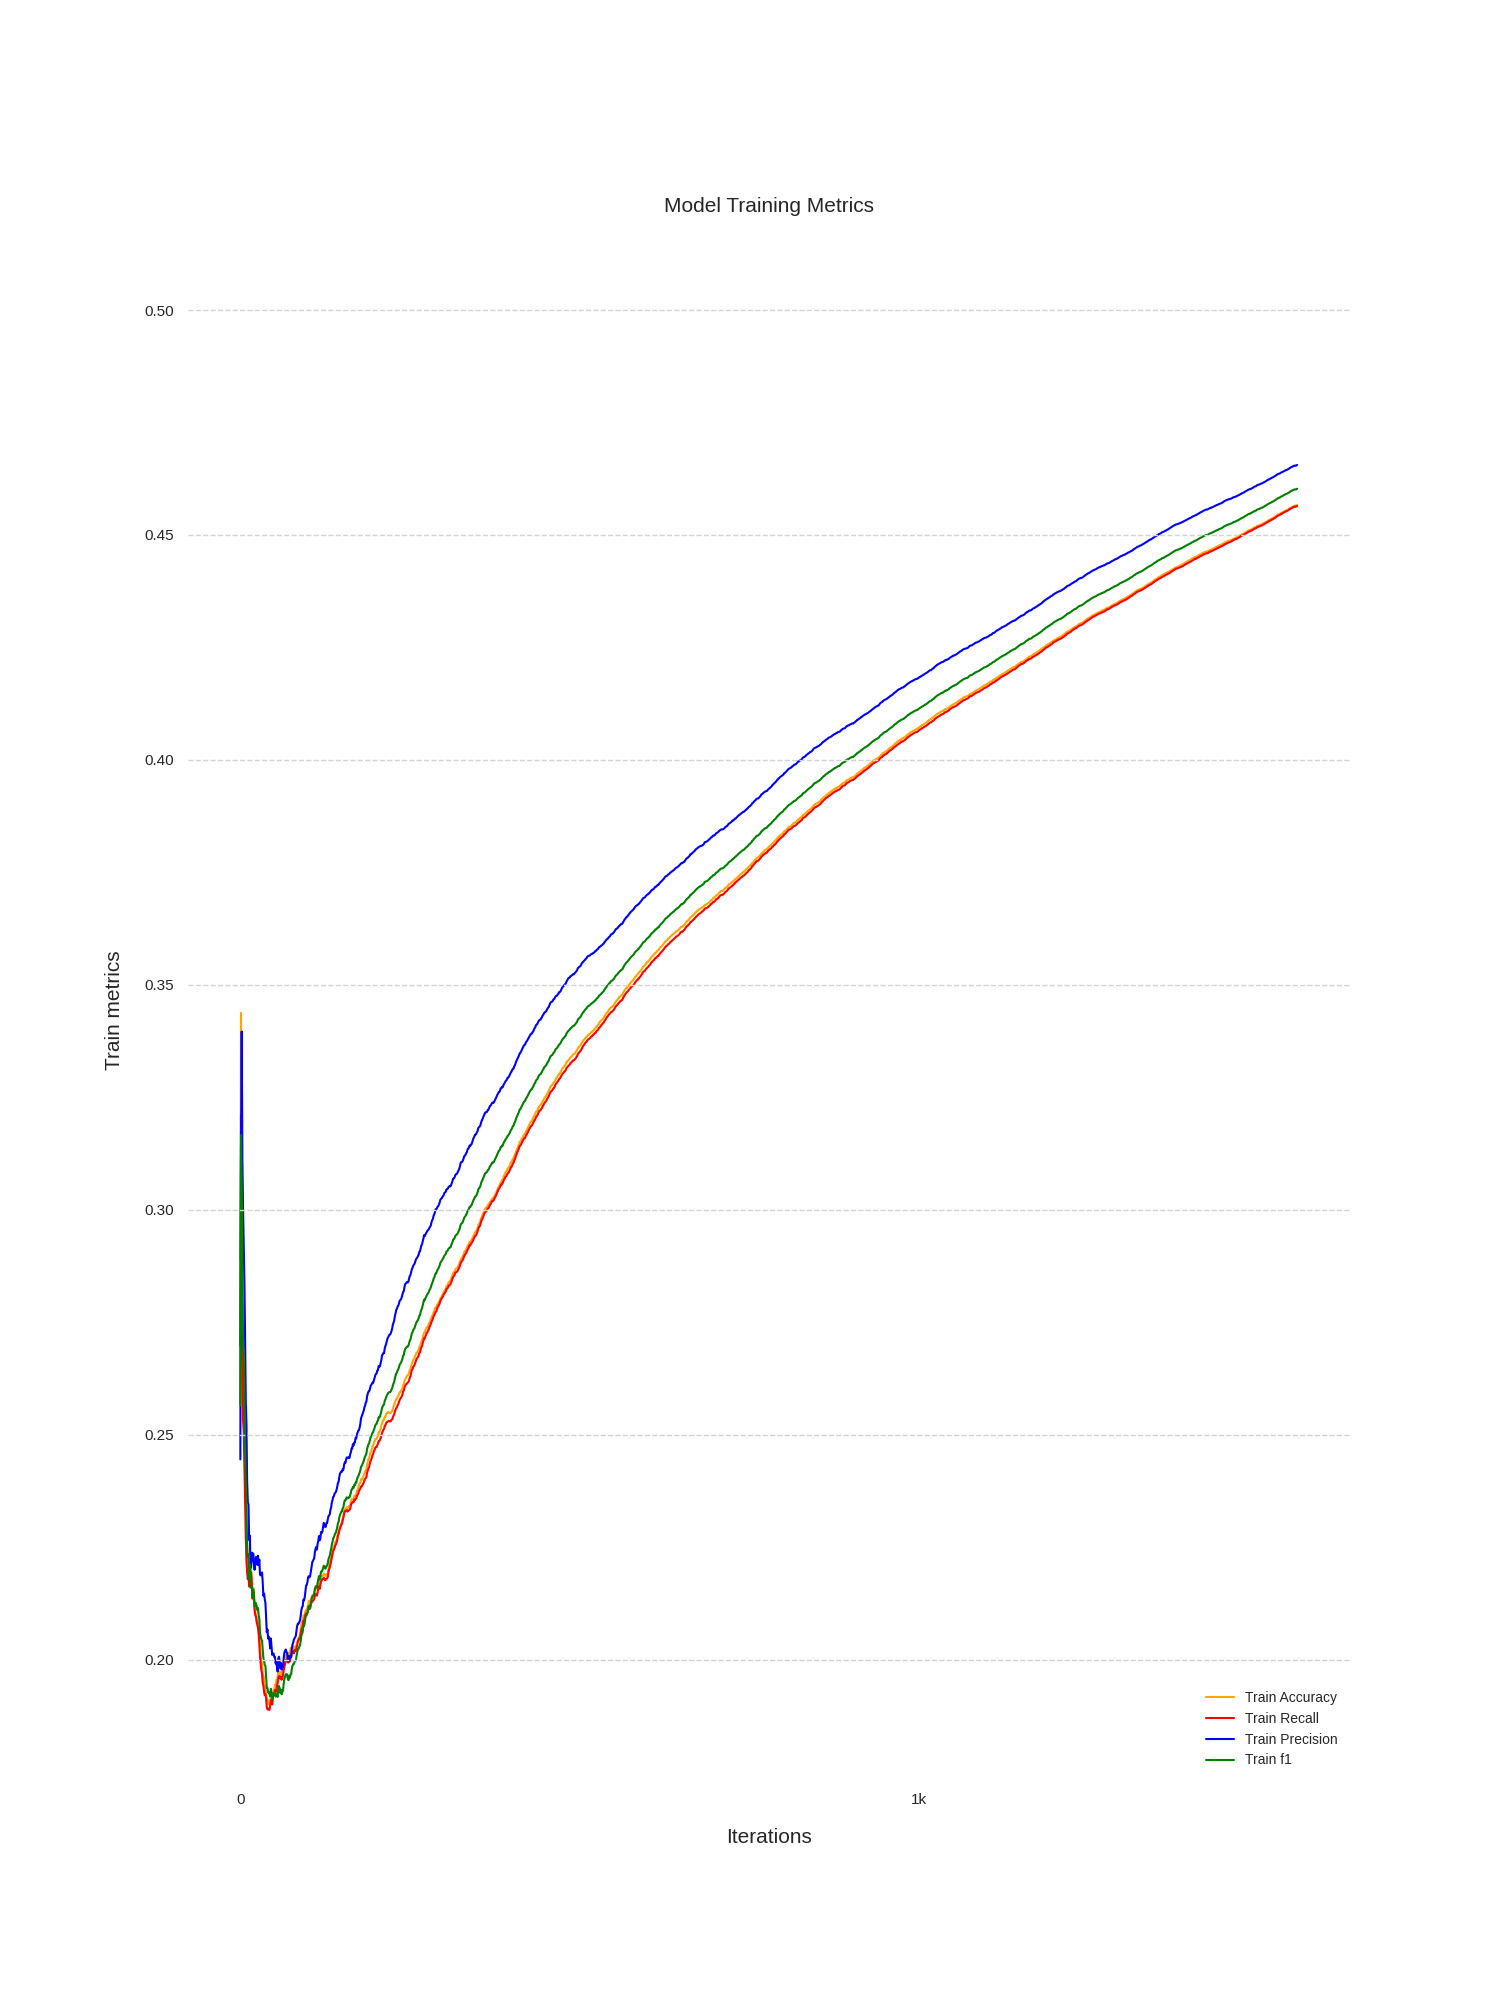
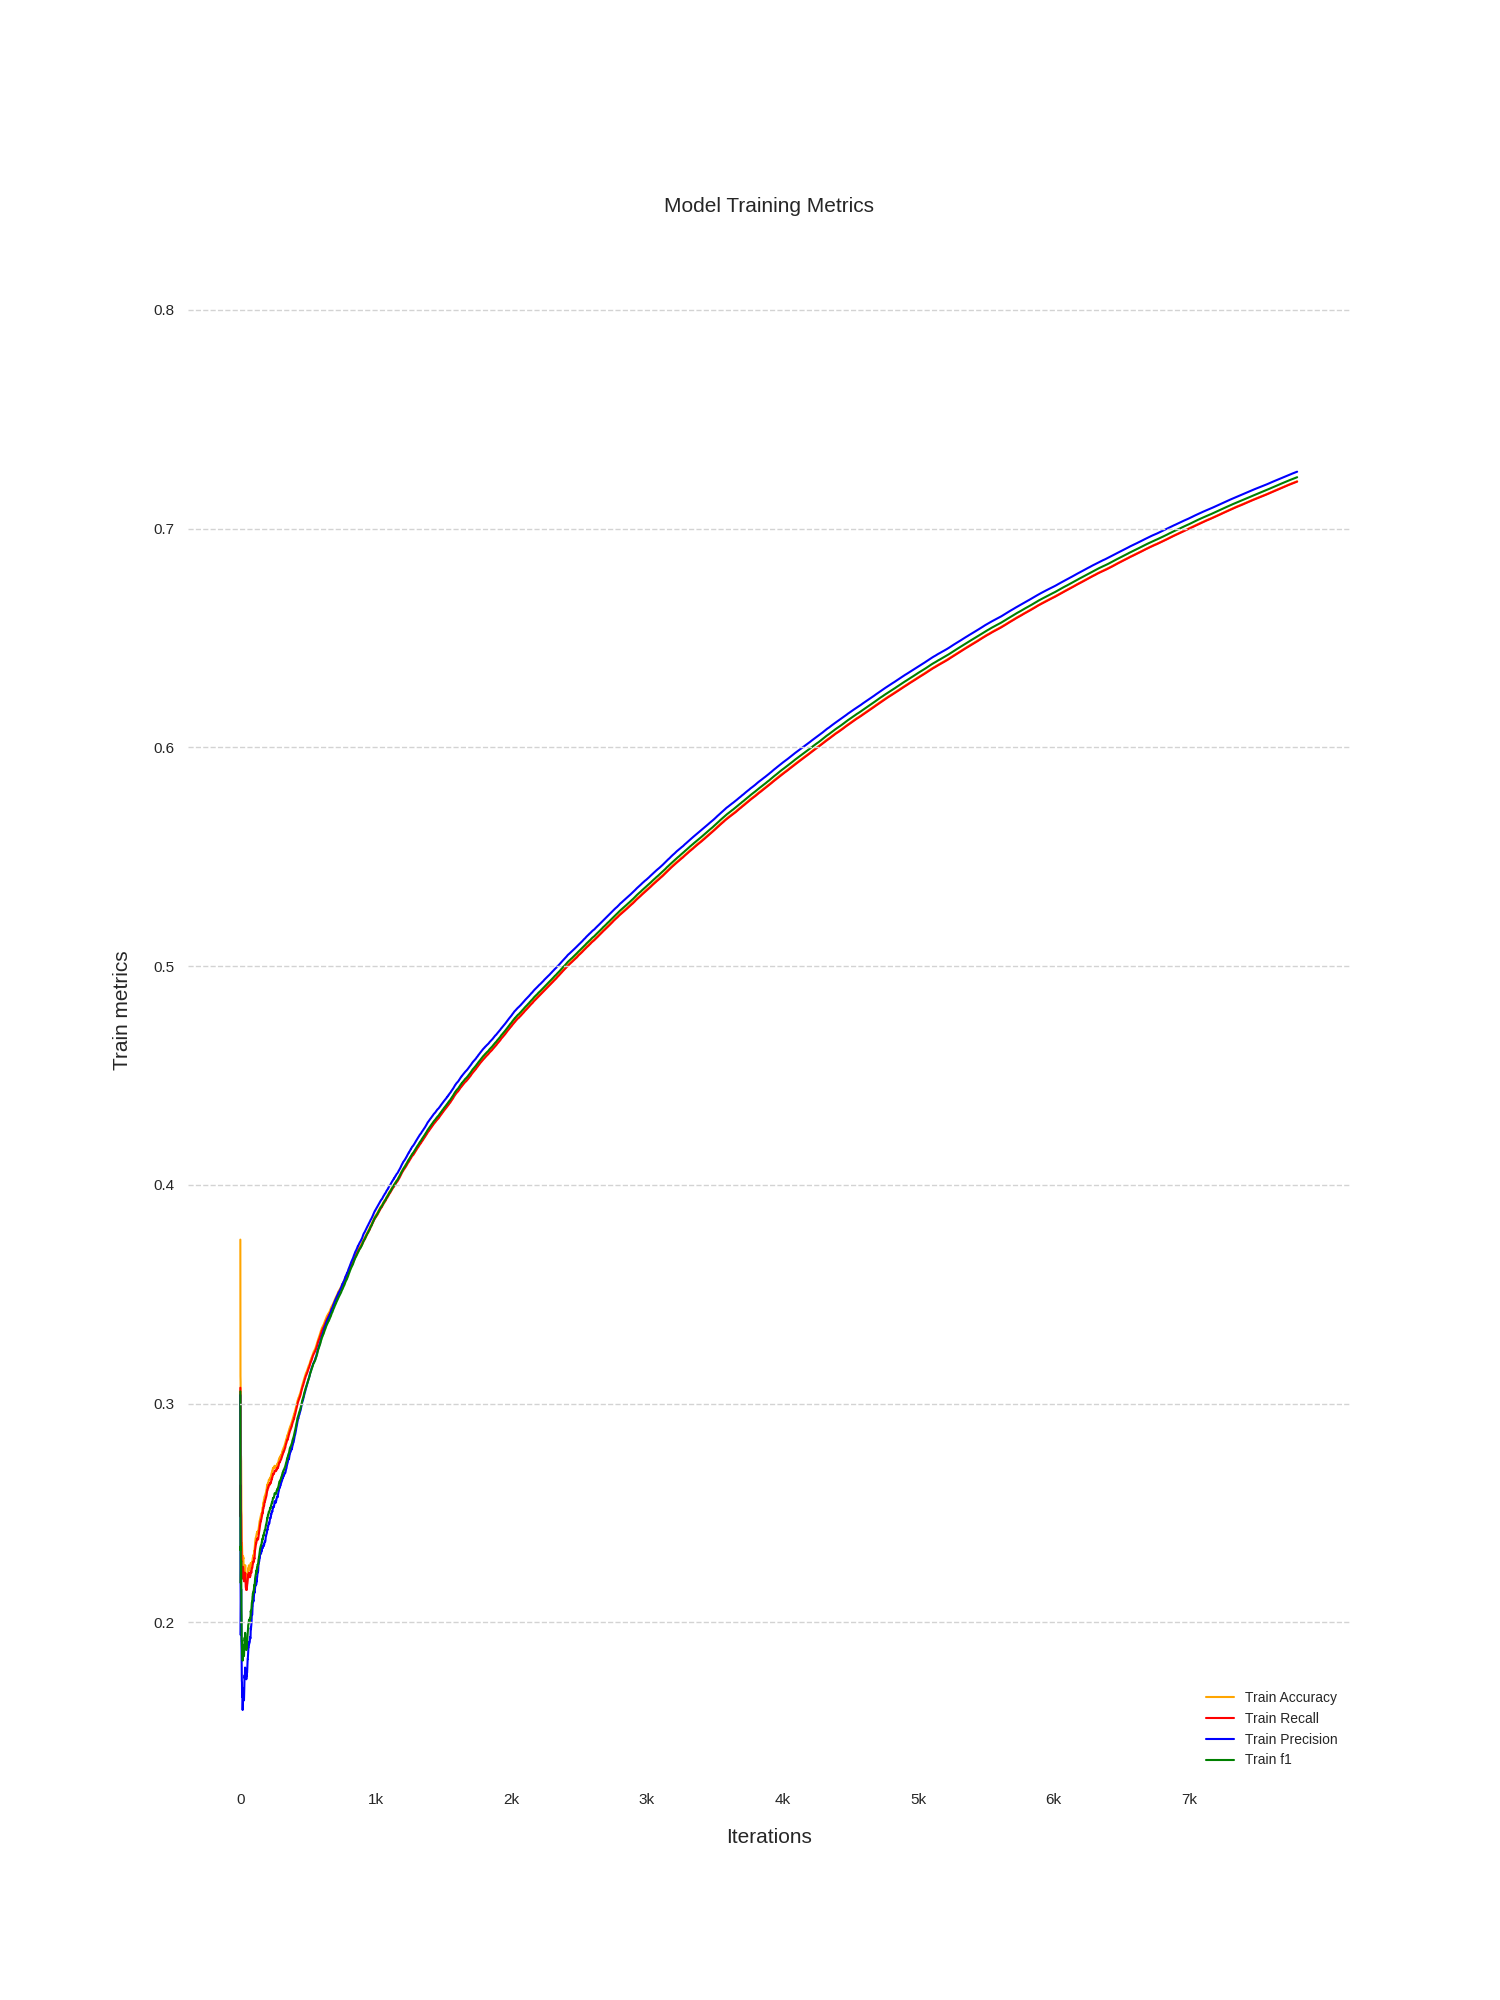
Add Epoch 20 plots and bug fix

Changed region(s): [[0.1533, 0.217, 0.8587, 0.868], [0.0613, 0.465, 0.092, 0.527], [0.2147, 0.62, 0.2453, 0.651]]

diff --git a/plots/plots.py b/plots/plots.py
@@ -5,23 +5,23 @@ import numpy as np
 import pandas as pd
 import time
 
-accuracy = np.load('../checkpoints/MLPvtest/accuracy-epoch-4.npy')
-avg_accuracy = np.load('../checkpoints/MLPvtest/smooth_accuracy-epoch-4.npy')
+accuracy = np.load('../checkpoints/MLPvtest/accuracy-epoch-20.npy')
+avg_accuracy = np.load('../checkpoints/MLPvtest/smooth_accuracy-epoch-20.npy')
 
-acc = np.load('../checkpoints/MLPvtest/accuracy-epoch-4.npy')
-accsmooth = np.load('../checkpoints/MLPvtest/smooth_accuracy-epoch-4.npy')
+acc = np.load('../checkpoints/MLPvtest/accuracy-epoch-20.npy')
+accsmooth = np.load('../checkpoints/MLPvtest/smooth_accuracy-epoch-20.npy')
 
-loss = np.load('../checkpoints/MLPvtest/loss-epoch-4.npy')
-loss_smooth =  np.load('../checkpoints/MLPvtest/smooth_loss-epoch-4.npy')
+loss = np.load('../checkpoints/MLPvtest/loss-epoch-20.npy')
+loss_smooth =  np.load('../checkpoints/MLPvtest/smooth_loss-epoch-20.npy')
 
-recall = np.load('../checkpoints/MLPvtest/recall-epoch-4.npy')
-avg_recall = np.load('../checkpoints/MLPvtest/smooth_recall-epoch-4.npy')
+recall = np.load('../checkpoints/MLPvtest/recall-epoch-20.npy')
+avg_recall = np.load('../checkpoints/MLPvtest/smooth_recall-epoch-20.npy')
 
-precision = np.load('../checkpoints/MLPvtest/precision-epoch-4.npy')
-avg_precision = np.load('../checkpoints/MLPvtest/smooth_precision-epoch-4.npy')
+precision = np.load('../checkpoints/MLPvtest/precision-epoch-20.npy')
+avg_precision = np.load('../checkpoints/MLPvtest/smooth_precision-epoch-20.npy')
 
-f1 = np.load('../checkpoints/MLPvtest/f1-epoch-4.npy')
-avg_f1 = np.load('../checkpoints/MLPvtest/smooth_f1-epoch-4.npy')
+f1 = np.load('../checkpoints/MLPvtest/f1-epoch-20.npy')
+avg_f1 = np.load('../checkpoints/MLPvtest/smooth_f1-epoch-20.npy')
 
 
 

diff --git a/stream.py b/stream.py
@@ -104,14 +104,14 @@ class Dataset:
         self.data = list(map(np.ndarray.tolist, data))
         print(len(data))
         for ix in range(0,(len(self.data)//batch_size)*batch_size,batch_size):
-            print(ix)
+            # print(ix)
             image = self.data[ix:ix+batch_size]
             label = self.labels[ix:ix+batch_size]
             batch.append([image,label])
         
         self.data = self.data[ix+batch_size:]
         self.labels = self.labels[ix+batch_size:]
-        print(f"Remaining Images : {len(self.data)}")
+        # print(f"Remaining Images : {len(self.data)}")
         return batch
 
     # separate function to stream CIFAR batches since the format is different
@@ -146,7 +146,7 @@ class Dataset:
                 data_received+=1
                 pbar.update(1)
                 pbar.set_description(f"epoch: {self.epoch} it: {data_received} | received : {received_shape} images")
-                time.sleep(0)
+                time.sleep(3)
         for batch in [[self.data,self.labels]]:
                 image,labels = batch
                 image = np.array(image)
@@ -174,8 +174,8 @@ class Dataset:
                 pbar.set_description(f"epoch: {self.epoch} it: {data_received} | received : {received_shape} images")
                 self.data = []
                 self.labels = []
-                time.sleep(0)    
-        pbar.reset()
+                time.sleep(3)    
+        pbar.pos=0
         self.epoch+=1
 
     def connectTCP(self):   # connect to the TCP server -- there is no need to modify this function

diff --git a/trainer.py b/trainer.py
@@ -39,7 +39,7 @@ class SparkConfig:
     host = "local"
     stream_host = "localhost"
     port = 6100
-    batch_interval = 2
+    batch_interval = 3
 
     def __init__(self, **kwargs) -> None:
         for key,value in kwargs.items():
